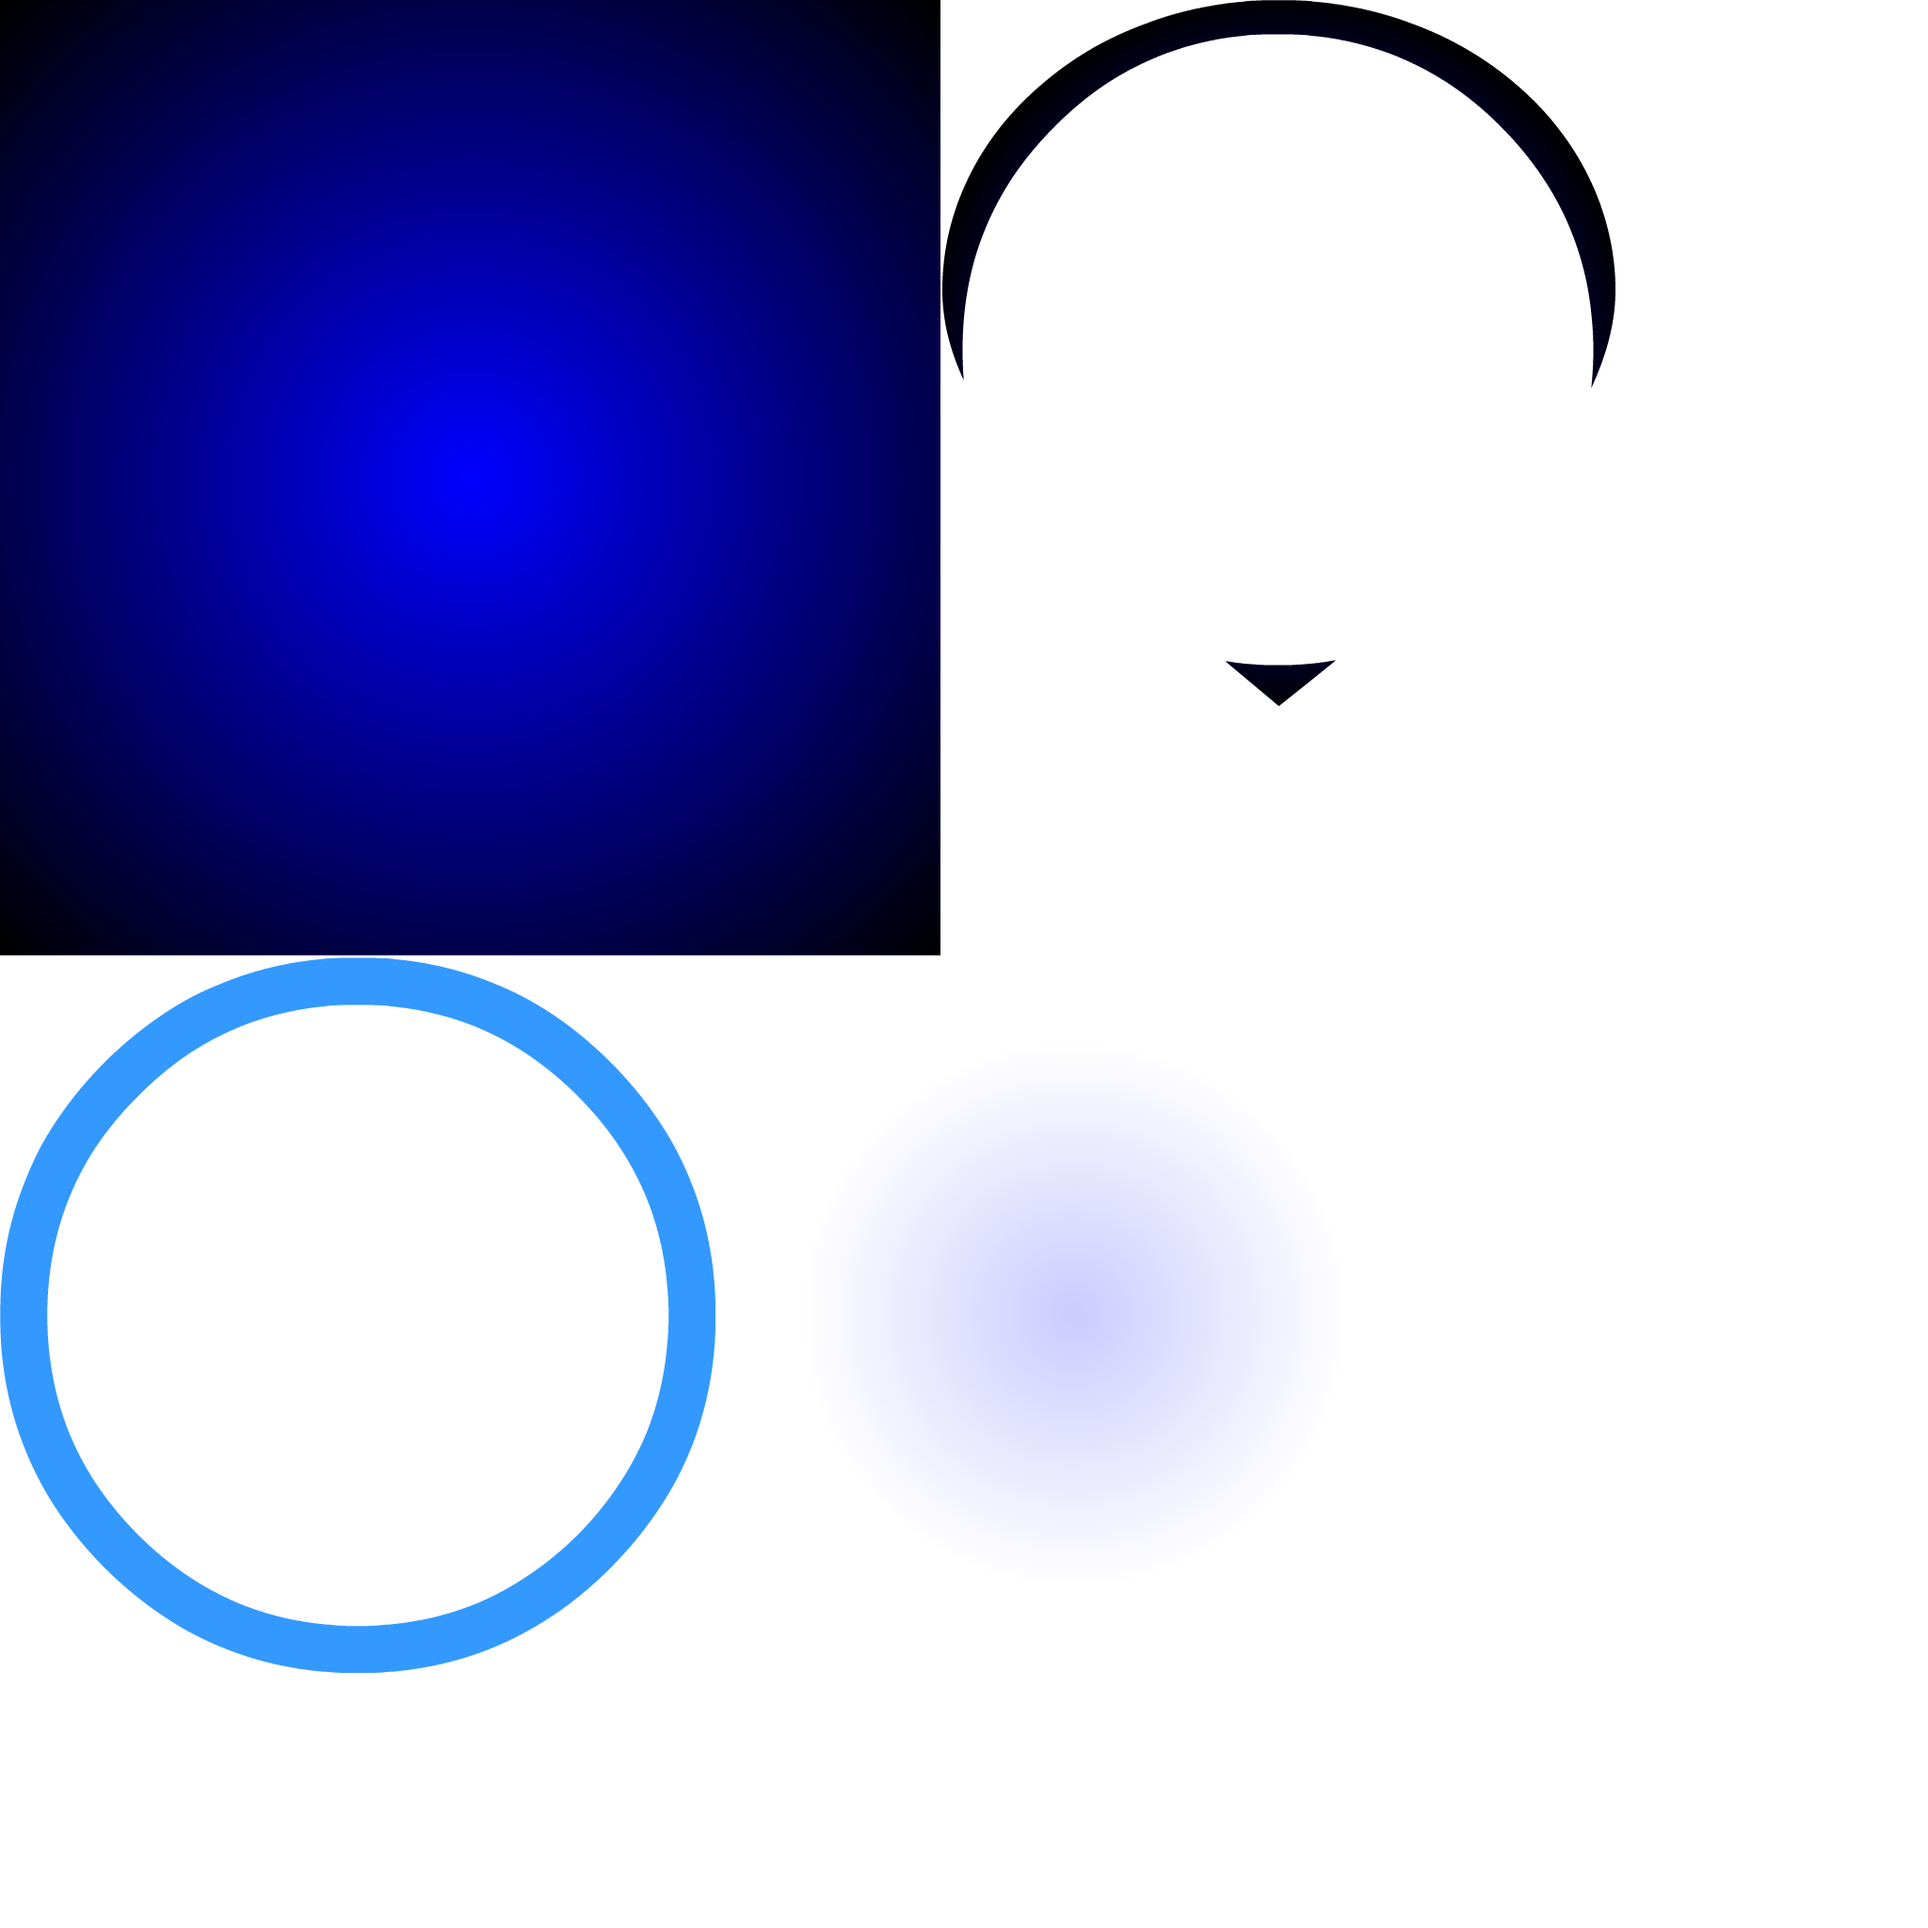
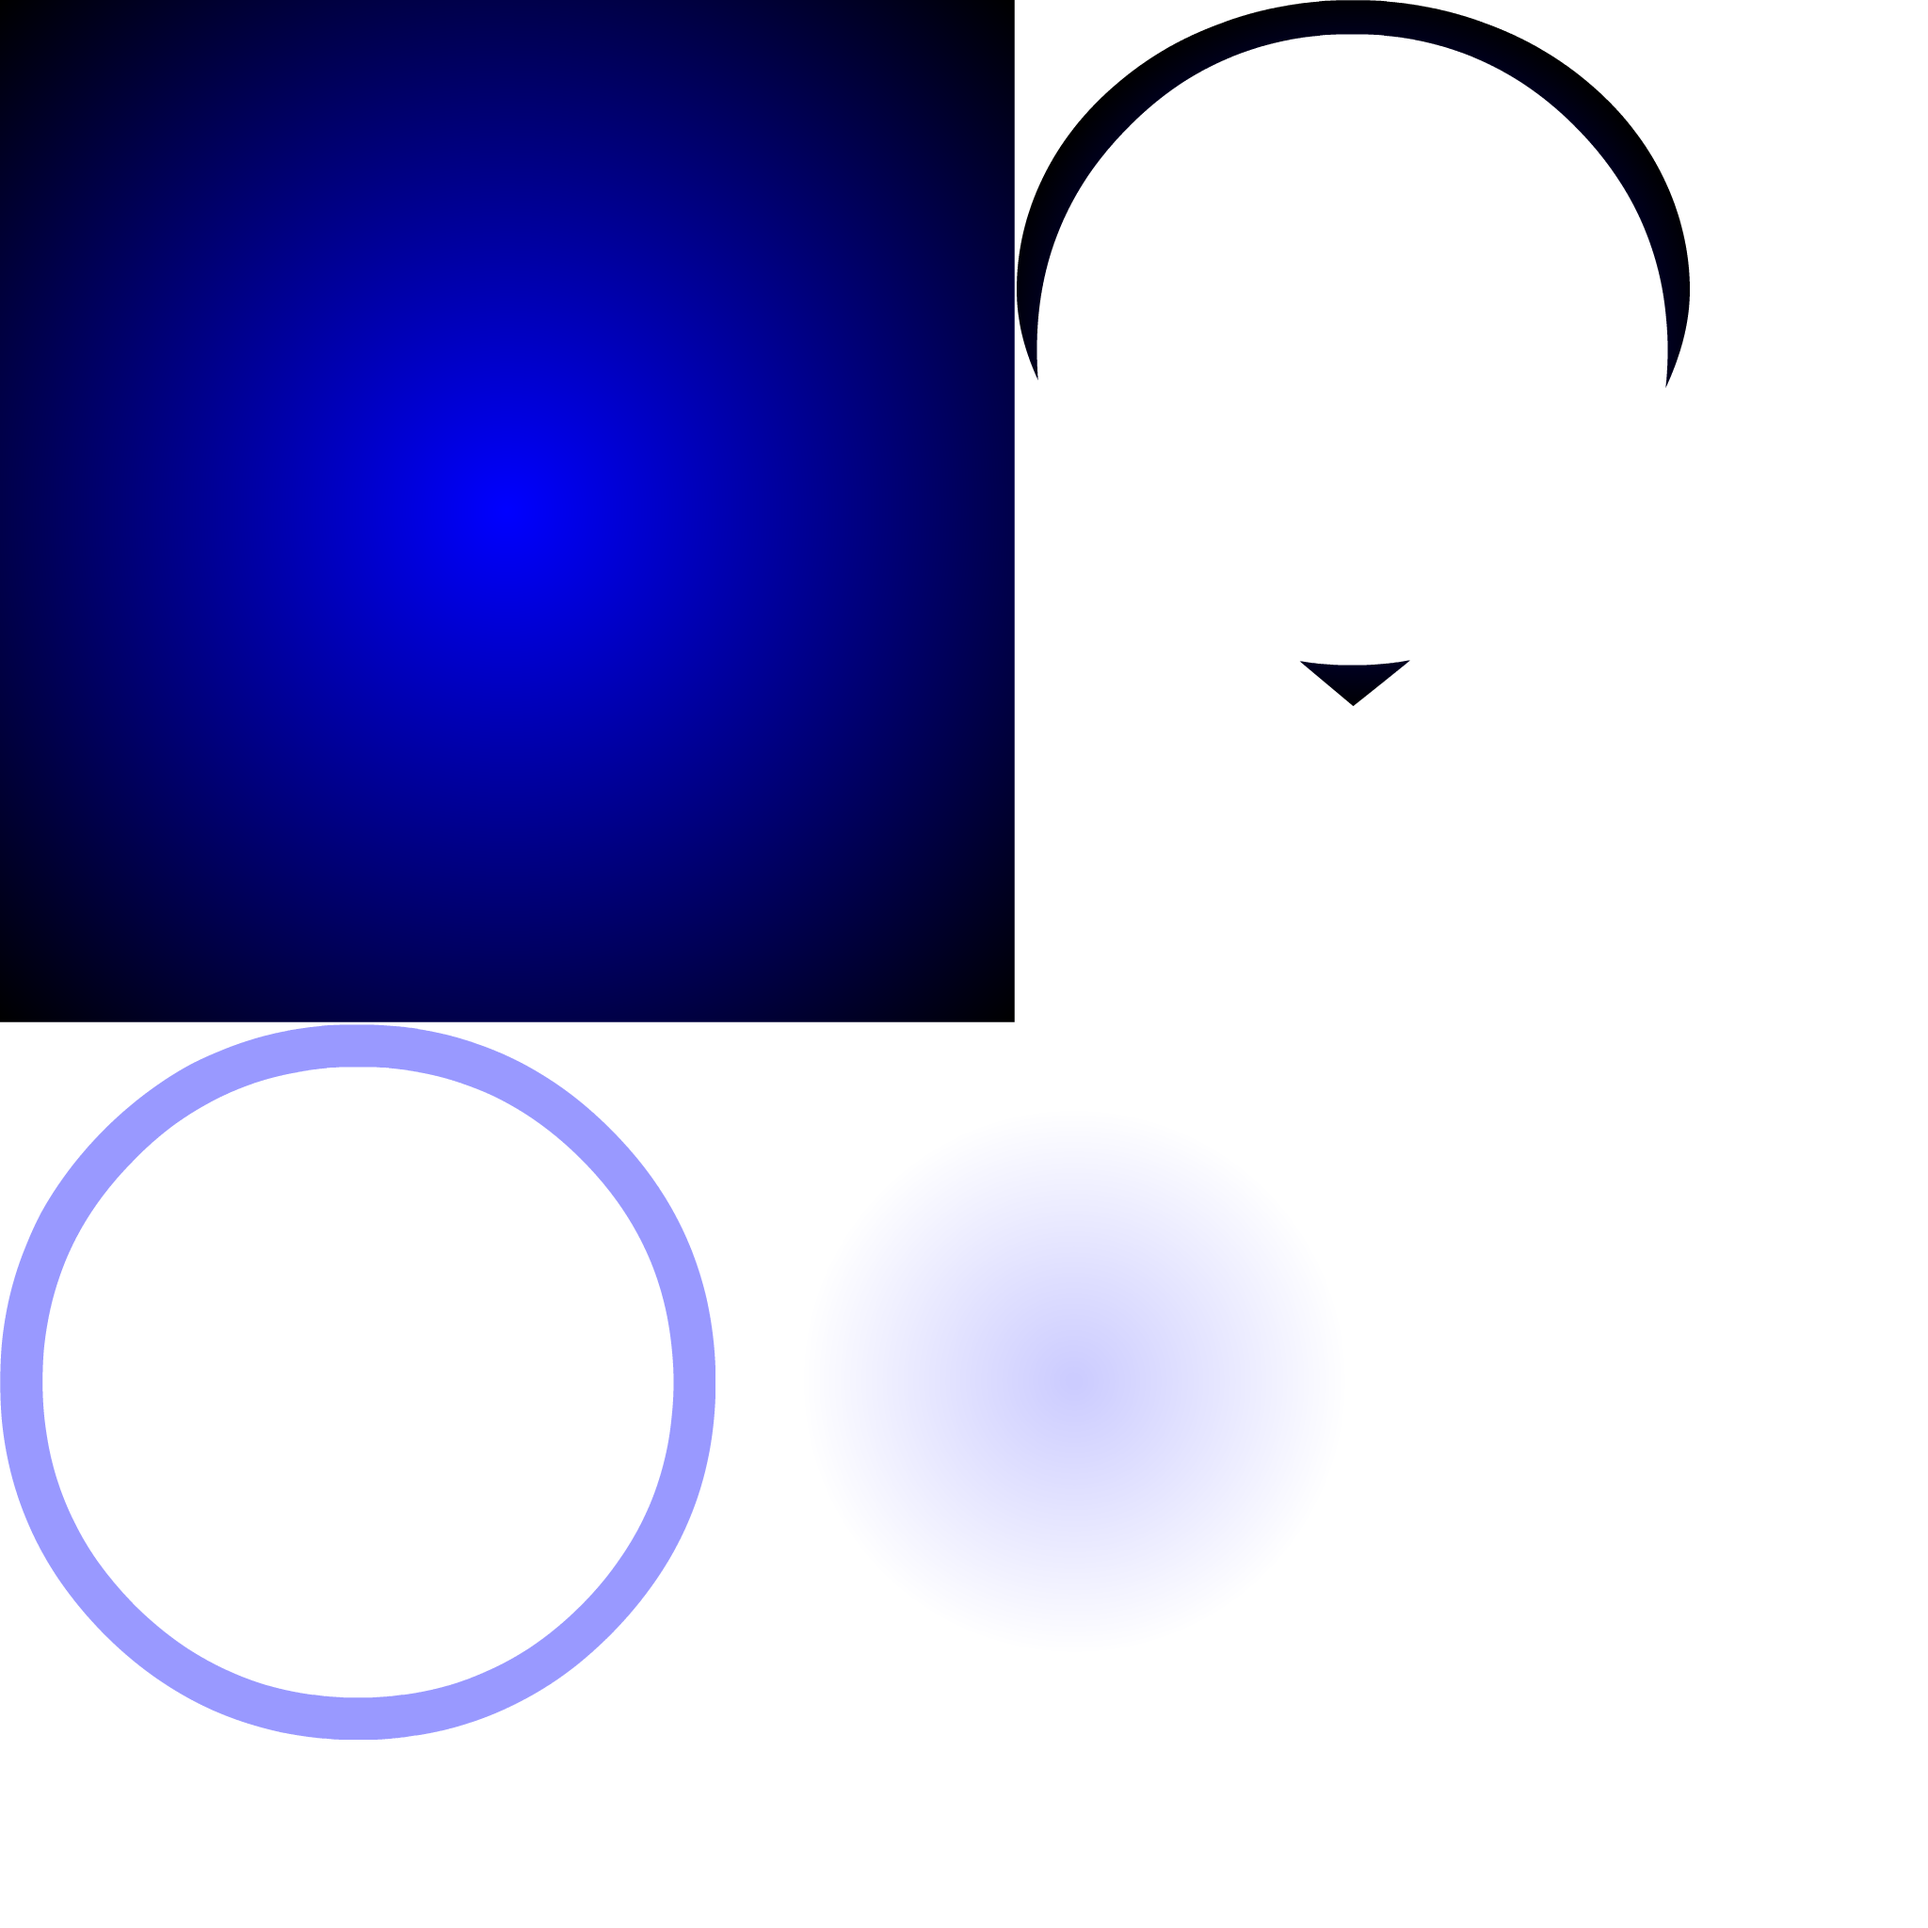
Add files via upload

Changed region(s): [[0.0, 0.0, 0.875, 0.9062], [0.625, 0.3438, 0.7188, 0.375]]

diff --git a/index.js b/index.js
@@ -3,19 +3,12 @@
 var p; // shortcut to reference prototypes
 var lib={};var ss={};var img={};
 lib.ssMetadata = [
-		{name:"index_atlas_", frames: [[0,1017,760,760],[762,1017,756,756],[1001,0,715,750],[0,0,999,1015]]},
-		{name:"index_atlas_2", frames: [[799,103,50,101],[714,263,57,101],[742,103,55,101],[672,367,94,101],[763,470,79,101],[0,672,1610,102],[672,0,40,365],[714,0,26,261],[844,412,23,219],[0,0,670,670],[672,470,89,101],[829,206,44,101],[773,206,54,101],[825,309,54,101],[742,0,55,101],[799,0,52,101],[768,366,55,101]]}
+		{name:"index_atlas_", frames: [[762,1088,756,756],[1080,0,715,750],[0,1088,760,760],[0,0,1078,1086]]},
+		{name:"index_atlas_2", frames: [[799,103,50,101],[714,263,57,101],[742,103,55,101],[672,367,94,101],[763,470,79,101],[0,672,1610,102],[672,0,40,365],[714,0,26,261],[0,0,670,670],[844,412,23,219],[672,470,89,101],[829,206,44,101],[773,206,54,101],[825,309,54,101],[742,0,55,101],[799,0,52,101],[768,366,55,101]]}
 ];
 
 
 // symbols:
-
-
-
-(lib.CachedTexturedBitmap_1 = function() {
-	this.initialize(ss["index_atlas_"]);
-	this.gotoAndStop(0);
-}).prototype = p = new cjs.Sprite();
 
 
 
@@ -56,54 +49,61 @@ lib.ssMetadata = [
 
 (lib.CachedTexturedBitmap_15 = function() {
 	this.initialize(ss["index_atlas_"]);
-	this.gotoAndStop(1);
-}).prototype = p = new cjs.Sprite();
-
-
-
-(lib.CachedTexturedBitmap_16 = function() {
-	this.initialize(ss["index_atlas_2"]);
-	this.gotoAndStop(5);
+	this.gotoAndStop(0);
 }).prototype = p = new cjs.Sprite();
 
 
 
 (lib.CachedTexturedBitmap_17 = function() {
 	this.initialize(ss["index_atlas_2"]);
-	this.gotoAndStop(6);
+	this.gotoAndStop(5);
 }).prototype = p = new cjs.Sprite();
 
 
 
 (lib.CachedTexturedBitmap_18 = function() {
 	this.initialize(ss["index_atlas_2"]);
-	this.gotoAndStop(7);
+	this.gotoAndStop(6);
 }).prototype = p = new cjs.Sprite();
 
 
 
 (lib.CachedTexturedBitmap_19 = function() {
 	this.initialize(ss["index_atlas_2"]);
-	this.gotoAndStop(8);
+	this.gotoAndStop(7);
 }).prototype = p = new cjs.Sprite();
 
 
 
 (lib.CachedTexturedBitmap_2 = function() {
 	this.initialize(ss["index_atlas_2"]);
-	this.gotoAndStop(9);
+	this.gotoAndStop(8);
 }).prototype = p = new cjs.Sprite();
 
 
 
 (lib.CachedTexturedBitmap_20 = function() {
+	this.initialize(ss["index_atlas_2"]);
+	this.gotoAndStop(9);
+}).prototype = p = new cjs.Sprite();
+
+
+
+(lib.CachedTexturedBitmap_21 = function() {
+	this.initialize(ss["index_atlas_"]);
+	this.gotoAndStop(1);
+}).prototype = p = new cjs.Sprite();
+
+
+
+(lib.CachedTexturedBitmap_24 = function() {
 	this.initialize(ss["index_atlas_"]);
 	this.gotoAndStop(2);
 }).prototype = p = new cjs.Sprite();
 
 
 
-(lib.CachedTexturedBitmap_24 = function() {
+(lib.CachedTexturedBitmap_25 = function() {
 	this.initialize(ss["index_atlas_"]);
 	this.gotoAndStop(3);
 }).prototype = p = new cjs.Sprite();
@@ -179,7 +179,7 @@ function getMCSymbolPrototype(symbol, nominalBounds, frameBounds) {
 	this.initialize(mode,startPosition,loop,{});
 
 	// Katman_1
-	this.instance = new lib.CachedTexturedBitmap_20();
+	this.instance = new lib.CachedTexturedBitmap_21();
 	this.instance.parent = this;
 	this.instance.setTransform(0,0,0.5,0.5);
 
@@ -193,7 +193,7 @@ p.nominalBounds = new cjs.Rectangle(0,0,357.5,375);
 	this.initialize(mode,startPosition,loop,{});
 
 	// Katman_1
-	this.instance = new lib.CachedTexturedBitmap_19();
+	this.instance = new lib.CachedTexturedBitmap_20();
 	this.instance.parent = this;
 	this.instance.setTransform(-6,-109.5,0.5,0.5);
 
@@ -206,7 +206,7 @@ p.nominalBounds = new cjs.Rectangle(0,0,357.5,375);
 	this.initialize(mode,startPosition,loop,{});
 
 	// Katman_1
-	this.instance = new lib.CachedTexturedBitmap_18();
+	this.instance = new lib.CachedTexturedBitmap_19();
 	this.instance.parent = this;
 	this.instance.setTransform(-6.5,-130.45,0.5,0.5);
 
@@ -219,7 +219,7 @@ p.nominalBounds = new cjs.Rectangle(0,0,357.5,375);
 	this.initialize(mode,startPosition,loop,{});
 
 	// Katman_1
-	this.instance = new lib.CachedTexturedBitmap_17();
+	this.instance = new lib.CachedTexturedBitmap_18();
 	this.instance.parent = this;
 	this.instance.setTransform(-10,-142.1,0.5,0.5);
 
@@ -232,7 +232,7 @@ p.nominalBounds = new cjs.Rectangle(0,0,357.5,375);
 	this.initialize(mode,startPosition,loop,{});
 
 	// Katman_1
-	this.instance = new lib.CachedTexturedBitmap_16();
+	this.instance = new lib.CachedTexturedBitmap_17();
 	this.instance.parent = this;
 	this.instance.setTransform(-370.45,-23.45,0.4602,0.4602);
 
@@ -386,7 +386,7 @@ p.nominalBounds = new cjs.Rectangle(-61.8,-28.1,113.5,17.1);
 	this.timeline.addTween(cjs.Tween.get({}).to({state:[{t:this.instance_7},{t:this.instance_6},{t:this.instance_5},{t:this.instance_4},{t:this.instance_3},{t:this.instance_2},{t:this.instance_1},{t:this.instance}]}).wait(1));
 
 	// Layer_6
-	this.instance_8 = new lib.CachedTexturedBitmap_1();
+	this.instance_8 = new lib.CachedTexturedBitmap_24();
 	this.instance_8.parent = this;
 	this.instance_8.setTransform(60,60,0.5,0.5);
 
@@ -397,16 +397,16 @@ p.nominalBounds = new cjs.Rectangle(-61.8,-28.1,113.5,17.1);
 	this.tarih_txt.name = "tarih_txt";
 	this.tarih_txt.textAlign = "center";
 	this.tarih_txt.lineHeight = 21;
-	this.tarih_txt.lineWidth = 247;
+	this.tarih_txt.lineWidth = 226;
 	this.tarih_txt.parent = this;
-	this.tarih_txt.setTransform(250.25,331.95);
+	this.tarih_txt.setTransform(249,322.55);
 
 	this.timeline.addTween(cjs.Tween.get(this.tarih_txt).wait(1));
 
 	// Layer_5
 	this.instance_9 = new lib.KDR();
 	this.instance_9.parent = this;
-	this.instance_9.setTransform(275.6,170,1,1,0,0,0,19.5,-23.4);
+	this.instance_9.setTransform(273.6,172,1,1,0,0,0,19.5,-23.4);
 
 	this.instance_10 = new lib.CachedTexturedBitmap_14();
 	this.instance_10.parent = this;
@@ -470,14 +470,14 @@ p.nominalBounds = new cjs.Rectangle(-61.8,-28.1,113.5,17.1);
 	this.timeline.addTween(cjs.Tween.get(this.instance_23).wait(1));
 
 	// Katman_5
-	this.instance_24 = new lib.CachedTexturedBitmap_24();
+	this.instance_24 = new lib.CachedTexturedBitmap_25();
 	this.instance_24.parent = this;
-	this.instance_24.setTransform(0.3,-3.7,0.5,0.5);
+	this.instance_24.setTransform(-19.45,-21.5,0.5,0.5);
 
 	this.timeline.addTween(cjs.Tween.get(this.instance_24).wait(1));
 
 }).prototype = p = new cjs.MovieClip();
-p.nominalBounds = new cjs.Rectangle(-197.7,241.1,706.8,267.9);
+p.nominalBounds = new cjs.Rectangle(-199.7,228.5,719.3,293);
 // library properties:
 lib.properties = {
 	id: '3AC1DD984A283B448D568D178535DB48',

diff --git a/index.html b/index.html
@@ -59,13 +59,12 @@ function handleComplete(evt,comp) {
 		createjs.Ticker.addEventListener("tick", stage);
 	}	    
 	//Code to support hidpi screens and responsive scaling.
-	AdobeAn.makeResponsive(true,'both',false,1,[canvas,anim_container,dom_overlay_container]);	
+	AdobeAn.makeResponsive(true,'both',true,1,[canvas,anim_container,dom_overlay_container]);	
 	AdobeAn.compositionLoaded(lib.properties.id);
 	fnStartAnimation();
 }
 </script>
 <!-- write your code here -->
-<meta name="viewport" content="width=device-width, initial-scale=1.0">
 </head>
 <body onload="init();" style="margin:0px;">
 	<div id="animation_container" style="background-color:rgba(0, 51, 102, 1.00); width:500px; height:500px">
@@ -74,5 +73,4 @@ function handleComplete(evt,comp) {
 		</div>
 	</div>
 </body>
-
 </html>
